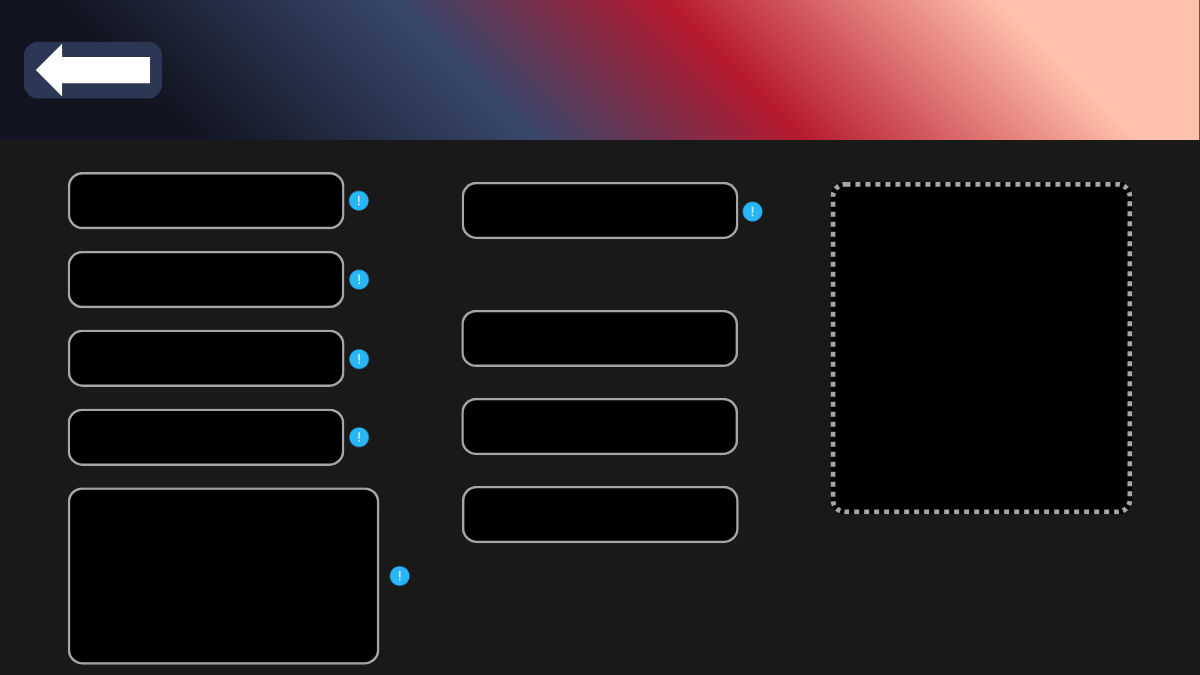
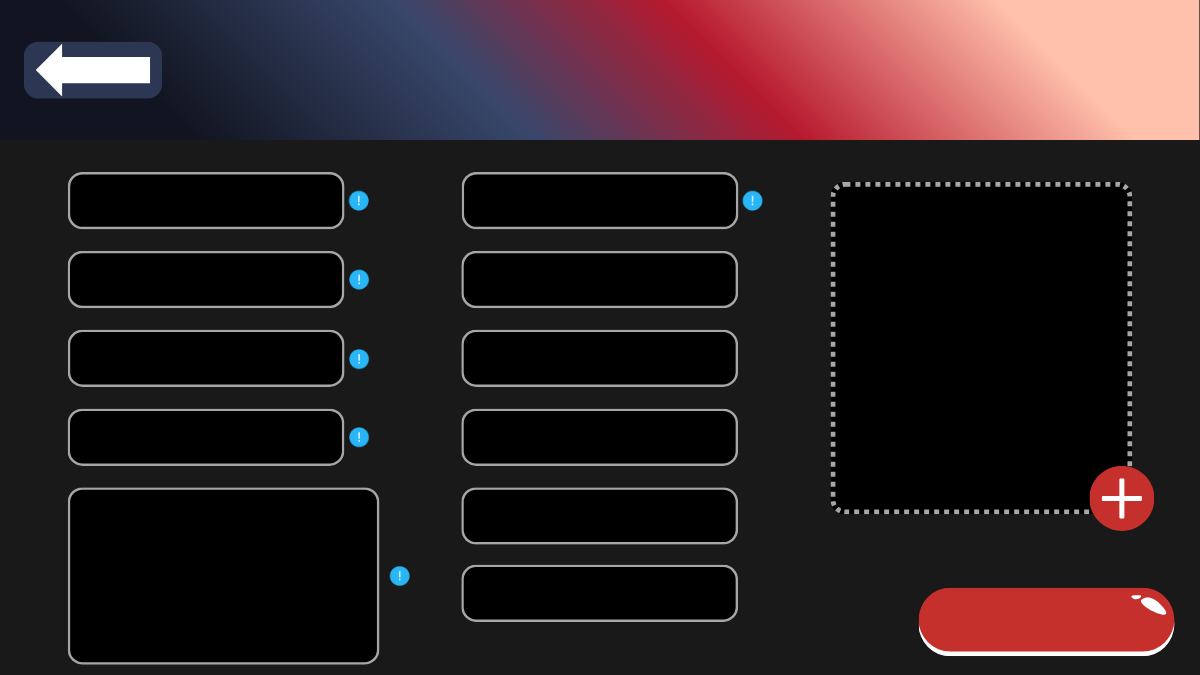
cambio de ventana registro

diff --git a/ProyectoFinal/src/co/edu/unbosque/view/VentanaRegistro.java b/ProyectoFinal/src/co/edu/unbosque/view/VentanaRegistro.java
@@ -60,15 +60,20 @@ public class VentanaRegistro extends JFrame {
 	
 	//Otros
 	private JLabel lblCodigoDeVerificacion;
+	private JTextField textCodigoVerificacion;
 	private JButton btnEnviarCodigoDeVerificacion;
 	private JButton btnSubirImagen;
 	private JCalendar calendario;
 	
+	//ADMIN
+	private JLabel lblesAdministrador;
+
+	private JComboBox<String> cbesAdministrador;
+	
 	private Properties prop;
 
 	public VentanaRegistro() {
-		prop = new Properties();
-		inicializarComponentes();
+		
 	}
 
 	public void inicializarComponentes() {
@@ -167,13 +172,13 @@ public class VentanaRegistro extends JFrame {
 		
 		lblAlias = new JLabel(prop.getProperty("bostinder.ventanaregistro.lblalias"));
 		lblAlias.setFont(new Font("Arial Rounded MT Bold", Font.BOLD, 18));
-		lblAlias.setBounds(480, 130, 1200, 70);
+		lblAlias.setBounds(480, 120, 1200, 70);
 		lblAlias.setForeground(Color.WHITE);
 		this.add(lblAlias);
 
 		textAlias = new JTextField();
 		textAlias.setFont(new Font("Arial Rounded MT Bold", Font.BOLD, 20));
-		textAlias.setBounds(470, 190, 260, 40);
+		textAlias.setBounds(470, 180, 260, 40);
 		textAlias.setForeground(Color.WHITE);
 		textAlias.setBackground(new Color(0,0,0));
 		textAlias.setOpaque(true);
@@ -183,13 +188,13 @@ public class VentanaRegistro extends JFrame {
 		//HOMBRE
 		lblIngreso = new JLabel(prop.getProperty("bostinder.ventanaregistro.lblingresos"));
 		lblIngreso.setFont(new Font("Arial Rounded MT Bold", Font.BOLD, 18));
-		lblIngreso.setBounds(480, 260, 1200, 70);
+		lblIngreso.setBounds(480, 205, 1200, 70);
 		lblIngreso.setForeground(Color.WHITE);
 		this.add(lblIngreso);
 
 		textIngreso = new JTextField();
 		textIngreso.setFont(new Font("Arial Rounded MT Bold", Font.BOLD, 20));
-		textIngreso.setBounds(470, 320, 260, 40);
+		textIngreso.setBounds(470, 263, 260, 40);
 		textIngreso.setForeground(Color.WHITE);
 		textIngreso.setBackground(new Color(0,0,0));
 		textIngreso.setOpaque(true);
@@ -198,13 +203,13 @@ public class VentanaRegistro extends JFrame {
 		
 		lblEstatura = new JLabel(prop.getProperty("bostinder.ventanaregistro.lblestatura"));
 		lblEstatura.setFont(new Font("Arial Rounded MT Bold", Font.BOLD, 18));
-		lblEstatura.setBounds(480, 350, 1200, 70);
+		lblEstatura.setBounds(480, 283, 1200, 70);
 		lblEstatura.setForeground(Color.WHITE);
 		this.add(lblEstatura);
 
 		textEstatura = new JTextField();
 		textEstatura.setFont(new Font("Arial Rounded MT Bold", Font.BOLD, 20));
-		textEstatura.setBounds(470, 408, 260, 40);
+		textEstatura.setBounds(470, 340, 260, 40);
 		textEstatura.setForeground(Color.WHITE);
 		textEstatura.setBackground(new Color(0,0,0));
 		textEstatura.setOpaque(true);
@@ -214,25 +219,55 @@ public class VentanaRegistro extends JFrame {
 		//MUJER
 		lblDivorcio = new JLabel(prop.getProperty("bostinder.ventanaregistro.lbldivorcio"));
 		lblDivorcio.setFont(new Font("Arial Rounded MT Bold", Font.BOLD, 18));
-		lblDivorcio.setBounds(480, 438, 1200, 70);
+		lblDivorcio.setBounds(480, 364, 1200, 70);
 		lblDivorcio.setForeground(Color.WHITE);
 		this.add(lblDivorcio);
 
 		cbSeHaDivorciado = new JComboBox<>(new String[] { "Seleccione...", "Sí", "No" });
 		cbSeHaDivorciado.setFont(new Font("Arial Rounded MT Bold", Font.BOLD, 20));
-		cbSeHaDivorciado.setBounds(470, 495, 260, 40);
+		cbSeHaDivorciado.setBounds(470, 420, 260, 40);
 		cbSeHaDivorciado.setBackground(new Color(0,0,0));
 		cbSeHaDivorciado.setForeground(Color.WHITE);
 		cbSeHaDivorciado.setBorder(BorderFactory.createEmptyBorder());
 		cbSeHaDivorciado.setUI(new javax.swing.plaf.basic.BasicComboBoxUI());
 		this.add(cbSeHaDivorciado);
 
+		//admin
+		
+		lblesAdministrador = new JLabel(prop.getProperty("bostinder.ventanaregistro.lbladmin"));
+		lblesAdministrador.setFont(new Font("Arial Rounded MT Bold", Font.BOLD, 18));
+		lblesAdministrador.setBounds(480, 440, 1200, 70);
+		lblesAdministrador.setForeground(Color.WHITE);
+		this.add(lblesAdministrador);
+
+		cbesAdministrador = new JComboBox<>(prop.getProperty("bostinder.ventanaregistro.cbAdmin").split(","));
+		cbesAdministrador.setFont(new Font("Arial Rounded MT Bold", Font.BOLD, 20));
+		cbesAdministrador.setBounds(470, 495, 260, 40);
+		cbesAdministrador.setBackground(new Color(0,0,0));
+		cbesAdministrador.setForeground(Color.WHITE);
+		cbesAdministrador.setBorder(BorderFactory.createEmptyBorder());
+		cbesAdministrador.setUI(new javax.swing.plaf.basic.BasicComboBoxUI());
+		this.add(cbesAdministrador);
 		
 		//Botones
+		lblCodigoDeVerificacion = new JLabel(prop.getProperty("bostinder.ventanaregistro.lblCodigo"));
+		lblCodigoDeVerificacion.setFont(new Font("Arial Rounded MT Bold", Font.BOLD, 18));
+		lblCodigoDeVerificacion.setBounds(480, 520, 1200, 70);
+		lblCodigoDeVerificacion.setForeground(Color.WHITE);
+		this.add(lblCodigoDeVerificacion);
+		
+		textCodigoVerificacion = new JTextField();
+		textCodigoVerificacion.setFont(new Font("Arial Rounded MT Bold", Font.BOLD, 20));
+		textCodigoVerificacion.setBounds(470, 575, 260, 40);
+		textCodigoVerificacion.setForeground(Color.WHITE);
+		textCodigoVerificacion.setBackground(new Color(0,0,0));
+		textCodigoVerificacion.setOpaque(true);
+		textCodigoVerificacion.setBorder(null);
+		this.add(textCodigoVerificacion);
 		
 		btnEnviarCodigoDeVerificacion = new JButton(prop.getProperty("bostinder.ventanaregistro.btnEnviarCodigoDeVerificacion"));
 		btnEnviarCodigoDeVerificacion.setFont(new Font("Arial Rounded MT Bold", Font.BOLD, 20));
-		btnEnviarCodigoDeVerificacion.setBounds(470, 600, 250, 30);
+		btnEnviarCodigoDeVerificacion.setBounds(480, 630, 250, 30);
 		btnEnviarCodigoDeVerificacion.setBackground(new Color(198, 48, 44));
 		btnEnviarCodigoDeVerificacion.setForeground(Color.WHITE);
 		btnEnviarCodigoDeVerificacion.setFocusPainted(false);
@@ -240,12 +275,14 @@ public class VentanaRegistro extends JFrame {
 		this.add(btnEnviarCodigoDeVerificacion);
 		
 		btnCrearCuenta = new JButton(prop.getProperty("bostinder.ventanaregistro.btnCrearCuenta"));
-		btnCrearCuenta.setFont(new Font("Arial Rounded MT Bold", Font.BOLD, 20));
-		btnCrearCuenta.setBounds(855, 593, 250, 30);
-		btnCrearCuenta.setBackground(new Color(198, 48, 44));
+		btnCrearCuenta.setFont(new Font("Arial Rounded MT Bold", Font.BOLD, 30));
+		btnCrearCuenta.setBounds(920, 605, 240, 30);
 		btnCrearCuenta.setForeground(Color.WHITE);
-		btnCrearCuenta.setFocusPainted(false);
+		btnCrearCuenta.setFocusPainted(true);
 		btnCrearCuenta.setBorder(null);
+		btnCrearCuenta.setOpaque(true);
+		btnCrearCuenta.setBorderPainted(false);
+		btnCrearCuenta.setContentAreaFilled(false);
 		this.add(btnCrearCuenta);
 		
 		btnVolver = new JButton("");
@@ -253,21 +290,23 @@ public class VentanaRegistro extends JFrame {
 		btnVolver.setBounds(26, 50, 135, 40);
 		btnVolver.setForeground(Color.BLACK);
 		btnVolver.setFocusPainted(true);
-		btnVolver.setContentAreaFilled(false);
+		btnVolver.setBorder(null);
+		btnVolver.setOpaque(true);
 		btnVolver.setBorderPainted(false);
-		btnVolver.setOpaque(false);
+		btnVolver.setContentAreaFilled(false);
 		this.add(btnVolver);
 	
 		
 		btnSubirImagen = new JButton(prop.getProperty("bostinder.ventanaregistro.btnSubirImagen"));
-		btnSubirImagen.setFont(new Font("Arial Rounded MT Bold", Font.BOLD, 20));
-		btnSubirImagen.setBounds(855, 500, 250, 30);
-		btnSubirImagen.setBackground(new Color(198, 48, 44));
+		btnSubirImagen.setFont(new Font("Arial Rounded MT Bold", Font.PLAIN, 90));
+		btnSubirImagen.setBounds(1092, 467, 60, 60);
 		btnSubirImagen.setForeground(Color.WHITE);
-		btnSubirImagen.setFocusPainted(false);
+		btnSubirImagen.setFocusPainted(true);
 		btnSubirImagen.setBorder(null);
+		btnSubirImagen.setOpaque(true);
+		btnSubirImagen.setBorderPainted(false);
+		btnSubirImagen.setContentAreaFilled(false);
 		this.add(btnSubirImagen);
-		
 		
 	}
 	

diff --git a/ProyectoFinal/src/co/edu/unbosque/model/Persona.java b/ProyectoFinal/src/co/edu/unbosque/model/Persona.java
@@ -10,17 +10,11 @@ public abstract class Persona {
 	private LocalDate fecha;
 	private String genero;
 	private Boolean esAdministrador;
-	
-	
+
 	public Persona() {
-	
+
 	}
 
-
-
-
-
-	
 	public Persona(String nombre, String apellido, String email, LocalDate fecha, String genero,
 			Boolean esAdministrador) {
 		super();
@@ -32,118 +26,53 @@ public abstract class Persona {
 		this.esAdministrador = esAdministrador;
 	}
 
-
-
-
-
-
 	public String getNombre() {
 		return nombre;
 	}
-
-
-
-
-
 
 	public void setNombre(String nombre) {
 		this.nombre = nombre;
 	}
 
-
-
-
-
-
 	public String getApellido() {
 		return apellido;
 	}
-
-
-
-
-
 
 	public void setApellido(String apellido) {
 		this.apellido = apellido;
 	}
 
-
-
-
-
-
 	public String getEmail() {
 		return email;
 	}
-
-
-
-
-
 
 	public void setEmail(String email) {
 		this.email = email;
 	}
 
-
-
-
-
-
 	public LocalDate getFecha() {
 		return fecha;
 	}
-
-
-
-
-
 
 	public void setFecha(LocalDate fecha) {
 		this.fecha = fecha;
 	}
 
-
-
-
-
-
 	public String getGenero() {
 		return genero;
 	}
-
-
-
-
-
 
 	public void setGenero(String genero) {
 		this.genero = genero;
 	}
 
-
-
-
-
-
 	public Boolean getEsAdministrador() {
 		return esAdministrador;
 	}
 
-
-
-
-
-
 	public void setEsAdministrador(Boolean esAdministrador) {
 		this.esAdministrador = esAdministrador;
 	}
-
-
-
-
-
 
 	@Override
 	public String toString() {
@@ -151,9 +80,4 @@ public abstract class Persona {
 				+ "\nGenero: " + genero + "\nEs administrador?: " + esAdministrador;
 	}
 
-
-
-
-	
-	
 }

diff --git a/ProyectoFinal/src/co/edu/unbosque/view/VentanaPrincipal.java b/ProyectoFinal/src/co/edu/unbosque/view/VentanaPrincipal.java
@@ -47,8 +47,6 @@ public class VentanaPrincipal extends JFrame {
 	private Properties prop;
 
 	public VentanaPrincipal() {
-		prop = new Properties();
-		inicializarComponentes();
 	}
 
 	public void inicializarComponentes() {

diff --git a/ProyectoFinal/src/co/edu/unbosque/controller/AplMain.java b/ProyectoFinal/src/co/edu/unbosque/controller/AplMain.java
@@ -9,4 +9,3 @@ public class AplMain {
 	}
 
 }
- 
